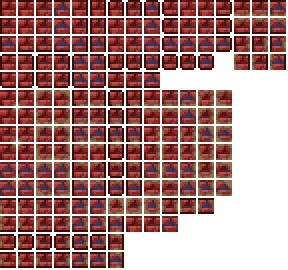
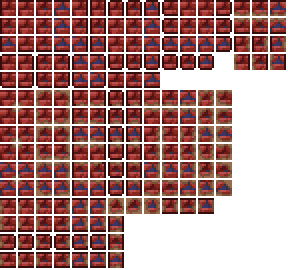
Nose dungeon platforms

Changed region(s): [[0.4375, 0.8, 0.625, 0.8593]]

diff --git a/Content/Tiles/NoseTemple/Furniture/NoseTemplePlatformPurple.cs b/Content/Tiles/NoseTemple/Furniture/NoseTemplePlatformPurple.cs
@@ -1,0 +1,50 @@
+using Terraria;
+using Terraria.ID;
+using Terraria.ModLoader;
+using Terraria.ObjectData;
+using Microsoft.Xna.Framework;
+
+namespace Spooky.Content.Tiles.NoseTemple.Furniture
+{
+	public class NoseTemplePlatformPurple : ModTile
+	{
+		public override void SetStaticDefaults() 
+        {
+			Main.tileLighted[Type] = true;
+			Main.tileFrameImportant[Type] = true;
+			Main.tileSolidTop[Type] = true;
+			Main.tileSolid[Type] = true;
+			Main.tileNoAttach[Type] = true;
+			Main.tileTable[Type] = true;
+			Main.tileLavaDeath[Type] = true;
+			TileID.Sets.Platforms[Type] = true;
+			TileID.Sets.DisableSmartCursor[Type] = true;
+			TileObjectData.newTile.UsesCustomCanPlace = false;
+			TileObjectData.newTile.LavaDeath = true;
+			TileObjectData.newTile.CoordinateHeights = new[] { 16 };
+			TileObjectData.newTile.CoordinateWidth = 16;
+			TileObjectData.newTile.CoordinatePadding = 2;
+			TileObjectData.newTile.StyleHorizontal = true;
+			TileObjectData.newTile.StyleMultiplier = 27;
+			TileObjectData.newTile.StyleWrapLimit = 27;
+			TileObjectData.newTile.UsesCustomCanPlace = false;
+			TileObjectData.newTile.LavaDeath = true;
+			TileObjectData.newTile.DrawYOffset = 0;
+			TileObjectData.addTile(Type);
+            AddMapEntry(new Color(78, 32, 114));
+			DustType = DustID.Stone;
+			AddToArray(ref TileID.Sets.RoomNeeds.CountsAsDoor);
+			AdjTiles = new int[] { TileID.Platforms };
+		}
+
+		public override void PostSetDefaults() 
+		{
+			Main.tileNoSunLight[Type] = false;
+		}
+
+		public override void NumDust(int i, int j, bool fail, ref int num) 
+		{
+			num = fail ? 1 : 3;
+		}
+	}
+}

diff --git a/Content/Tiles/NoseTemple/Furniture/NoseTemplePlatformGreen.cs b/Content/Tiles/NoseTemple/Furniture/NoseTemplePlatformGreen.cs
@@ -1,0 +1,50 @@
+using Terraria;
+using Terraria.ID;
+using Terraria.ModLoader;
+using Terraria.ObjectData;
+using Microsoft.Xna.Framework;
+
+namespace Spooky.Content.Tiles.NoseTemple.Furniture
+{
+	public class NoseTemplePlatformGreen : ModTile
+	{
+		public override void SetStaticDefaults() 
+        {
+			Main.tileLighted[Type] = true;
+			Main.tileFrameImportant[Type] = true;
+			Main.tileSolidTop[Type] = true;
+			Main.tileSolid[Type] = true;
+			Main.tileNoAttach[Type] = true;
+			Main.tileTable[Type] = true;
+			Main.tileLavaDeath[Type] = true;
+			TileID.Sets.Platforms[Type] = true;
+			TileID.Sets.DisableSmartCursor[Type] = true;
+			TileObjectData.newTile.UsesCustomCanPlace = false;
+			TileObjectData.newTile.LavaDeath = true;
+			TileObjectData.newTile.CoordinateHeights = new[] { 16 };
+			TileObjectData.newTile.CoordinateWidth = 16;
+			TileObjectData.newTile.CoordinatePadding = 2;
+			TileObjectData.newTile.StyleHorizontal = true;
+			TileObjectData.newTile.StyleMultiplier = 27;
+			TileObjectData.newTile.StyleWrapLimit = 27;
+			TileObjectData.newTile.UsesCustomCanPlace = false;
+			TileObjectData.newTile.LavaDeath = true;
+			TileObjectData.newTile.DrawYOffset = 0;
+			TileObjectData.addTile(Type);
+            AddMapEntry(new Color(59, 104, 33));
+			DustType = DustID.Stone;
+			AddToArray(ref TileID.Sets.RoomNeeds.CountsAsDoor);
+			AdjTiles = new int[] { TileID.Platforms };
+		}
+
+		public override void PostSetDefaults() 
+		{
+			Main.tileNoSunLight[Type] = false;
+		}
+
+		public override void NumDust(int i, int j, bool fail, ref int num) 
+		{
+			num = fail ? 1 : 3;
+		}
+	}
+}

diff --git a/Content/Tiles/NoseTemple/Furniture/NoseTemplePlatformRed.cs b/Content/Tiles/NoseTemple/Furniture/NoseTemplePlatformRed.cs
@@ -1,0 +1,50 @@
+using Terraria;
+using Terraria.ID;
+using Terraria.ModLoader;
+using Terraria.ObjectData;
+using Microsoft.Xna.Framework;
+
+namespace Spooky.Content.Tiles.NoseTemple.Furniture
+{
+	public class NoseTemplePlatformRed : ModTile
+	{
+		public override void SetStaticDefaults() 
+        {
+			Main.tileLighted[Type] = true;
+			Main.tileFrameImportant[Type] = true;
+			Main.tileSolidTop[Type] = true;
+			Main.tileSolid[Type] = true;
+			Main.tileNoAttach[Type] = true;
+			Main.tileTable[Type] = true;
+			Main.tileLavaDeath[Type] = true;
+			TileID.Sets.Platforms[Type] = true;
+			TileID.Sets.DisableSmartCursor[Type] = true;
+			TileObjectData.newTile.UsesCustomCanPlace = false;
+			TileObjectData.newTile.LavaDeath = true;
+			TileObjectData.newTile.CoordinateHeights = new[] { 16 };
+			TileObjectData.newTile.CoordinateWidth = 16;
+			TileObjectData.newTile.CoordinatePadding = 2;
+			TileObjectData.newTile.StyleHorizontal = true;
+			TileObjectData.newTile.StyleMultiplier = 27;
+			TileObjectData.newTile.StyleWrapLimit = 27;
+			TileObjectData.newTile.UsesCustomCanPlace = false;
+			TileObjectData.newTile.LavaDeath = true;
+			TileObjectData.newTile.DrawYOffset = 0;
+			TileObjectData.addTile(Type);
+            AddMapEntry(new Color(136, 38, 32));
+			DustType = DustID.Stone;
+			AddToArray(ref TileID.Sets.RoomNeeds.CountsAsDoor);
+			AdjTiles = new int[] { TileID.Platforms };
+		}
+
+		public override void PostSetDefaults() 
+		{
+			Main.tileNoSunLight[Type] = false;
+		}
+
+		public override void NumDust(int i, int j, bool fail, ref int num) 
+		{
+			num = fail ? 1 : 3;
+		}
+	}
+}

diff --git a/Content/Tiles/NoseTemple/Furniture/NoseTemplePlatformPurpleItem.cs b/Content/Tiles/NoseTemple/Furniture/NoseTemplePlatformPurpleItem.cs
@@ -1,0 +1,27 @@
+using Terraria.ID;
+using Terraria.ModLoader;
+
+namespace Spooky.Content.Tiles.NoseTemple.Furniture
+{
+	public class NoseTemplePlatformPurpleItem : ModItem
+    {
+		public override void SetStaticDefaults()
+        {
+            Item.ResearchUnlockCount = 200;
+        }
+
+		public override void SetDefaults() 
+		{
+			Item.useTurn = true;
+			Item.autoReuse = true;
+			Item.consumable = true;
+            Item.width = 16;
+			Item.height = 16;
+			Item.useTime = 7;
+			Item.useAnimation = 15;
+			Item.useStyle = ItemUseStyleID.Swing;
+			Item.maxStack = 9999;
+			Item.createTile = ModContent.TileType<NoseTemplePlatformPurple>();
+		}
+	}
+}

diff --git a/Content/Tiles/NoseTemple/Furniture/NoseTemplePlatformGreenItem.cs b/Content/Tiles/NoseTemple/Furniture/NoseTemplePlatformGreenItem.cs
@@ -1,0 +1,27 @@
+using Terraria.ID;
+using Terraria.ModLoader;
+
+namespace Spooky.Content.Tiles.NoseTemple.Furniture
+{
+	public class NoseTemplePlatformGreenItem : ModItem
+    {
+		public override void SetStaticDefaults()
+        {
+            Item.ResearchUnlockCount = 200;
+        }
+
+		public override void SetDefaults() 
+		{
+			Item.useTurn = true;
+			Item.autoReuse = true;
+			Item.consumable = true;
+            Item.width = 16;
+			Item.height = 16;
+			Item.useTime = 7;
+			Item.useAnimation = 15;
+			Item.useStyle = ItemUseStyleID.Swing;
+			Item.maxStack = 9999;
+			Item.createTile = ModContent.TileType<NoseTemplePlatformGreen>();
+		}
+	}
+}

diff --git a/Content/Tiles/NoseTemple/Furniture/NoseTemplePlatformRedItem.cs b/Content/Tiles/NoseTemple/Furniture/NoseTemplePlatformRedItem.cs
@@ -1,0 +1,27 @@
+using Terraria.ID;
+using Terraria.ModLoader;
+
+namespace Spooky.Content.Tiles.NoseTemple.Furniture
+{
+	public class NoseTemplePlatformRedItem : ModItem
+    {
+		public override void SetStaticDefaults()
+        {
+            Item.ResearchUnlockCount = 200;
+        }
+
+		public override void SetDefaults() 
+		{
+			Item.useTurn = true;
+			Item.autoReuse = true;
+			Item.consumable = true;
+            Item.width = 16;
+			Item.height = 16;
+			Item.useTime = 7;
+			Item.useAnimation = 15;
+			Item.useStyle = ItemUseStyleID.Swing;
+			Item.maxStack = 9999;
+			Item.createTile = ModContent.TileType<NoseTemplePlatformRed>();
+		}
+	}
+}

diff --git a/Content/Tiles/SpookyBiome/Furniture/OldWoodBookcase.cs b/Content/Tiles/SpookyBiome/Furniture/OldWoodBookcase.cs
@@ -13,10 +13,10 @@ namespace Spooky.Content.Tiles.SpookyBiome.Furniture
     {
 		public override void SetStaticDefaults()
 		{
+            Main.tileSolidTop[Type] = true;
             Main.tileFrameImportant[Type] = true;
             Main.tileNoAttach[Type] = true;
             Main.tileLavaDeath[Type] = true;
-            Main.tileSolidTop[Type] = true;
             TileObjectData.newTile.CopyFrom(TileObjectData.Style3x4);
             TileObjectData.addTile(Type);
             LocalizedText name = CreateMapEntryName();

diff --git a/Content/Tiles/NoseTemple/Furniture/CultistBookcase.cs b/Content/Tiles/NoseTemple/Furniture/CultistBookcase.cs
@@ -12,7 +12,7 @@ namespace Spooky.Content.Tiles.NoseTemple.Furniture
     {
         public override void SetStaticDefaults()
 		{
-            Main.tileSolidTop[Type] = false;
+            Main.tileSolidTop[Type] = true;
             Main.tileFrameImportant[Type] = true;
             Main.tileNoAttach[Type] = true;
             Main.tileLavaDeath[Type] = true;
